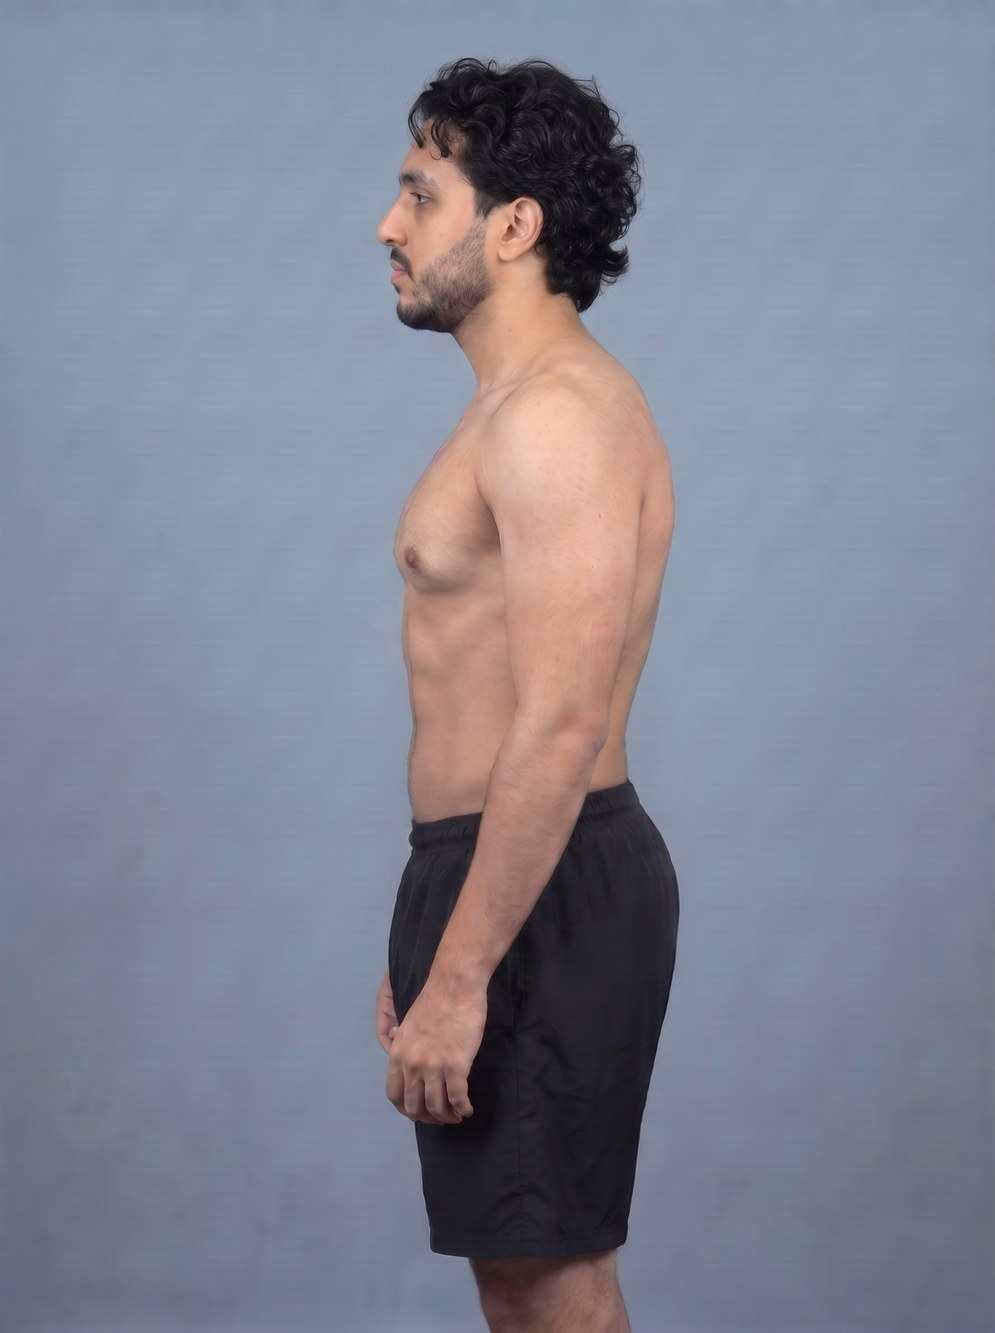
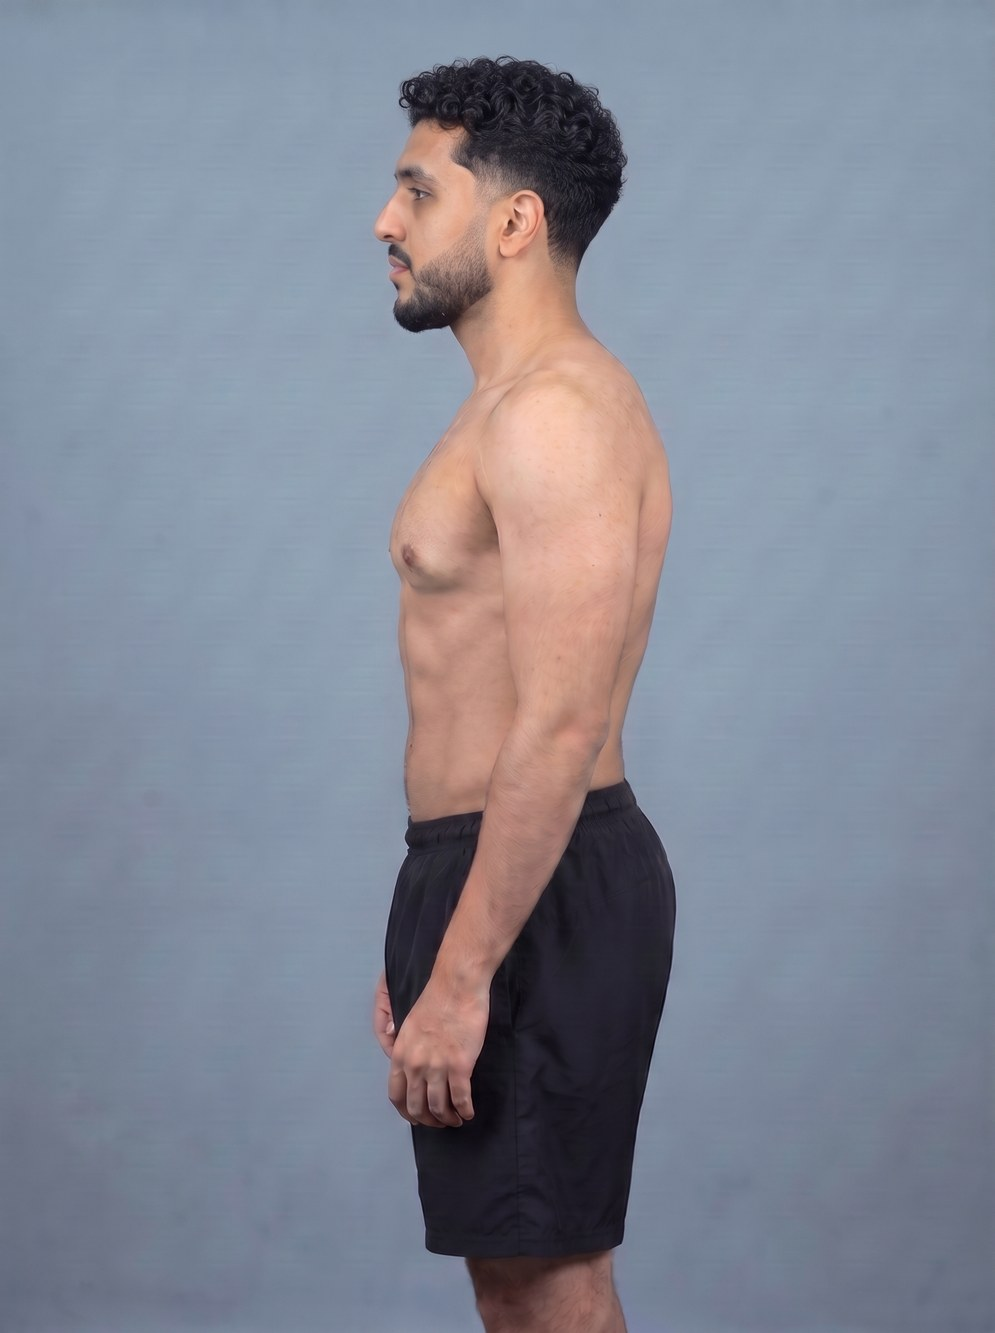
Sharper, rested after: presence block in after prompt; neat curly crop
- afterPrompt applies ALL plan visuals and adds PRESENCE (alert eyes,
  no fatigue cues, posture, defined facial planes) per sleep-appearance
  research, instead of editing only listed items
- Sample after: neat curly crop + faded Italian beard (reviewer pick),
  swept-back medium curls kept as alternative; realism check passes
  (jaw -0.2%, eyes +2.2%, nose +2.1%)
- Body afters updated to match

Claude-Session: https://claude.ai/code/session_01YK5LfND9fHzJNnxfHhhsd1

diff --git a/app/src/lib/plan.ts b/app/src/lib/plan.ts
@@ -220,7 +220,7 @@ export function buildPlan(scan: Scan, intake: Intake): Plan {
       drivenBy: ["Under-eye", "Sleep"],
       priority: 1,
       tasks: [{ id: "sleep-7", label: "In bed for 7.5+ h, same wake time", cadence: "daily" }],
-      visual: "rested eyes with less under-eye darkness and puffiness, eyelids slightly less heavy",
+      visual: "well-rested eyes: upper eyelids open and alert (not hanging), clear whites, no under-eye darkness or puffiness",
     });
   }
 
@@ -769,11 +769,21 @@ export function hairAdvice(intake: Intake, shape: string | null) {
 /*  "After" image prompt — only plan-achievable changes                */
 /* ------------------------------------------------------------------ */
 
+/**
+ * The combined effect of sleep, fat loss, posture and skin care on how a face reads.
+ * Without this the model edits only the listed items and keeps a tired, flat look
+ * (Sundelin 2013/2017; Axelsson 2010: sleep loss → hanging lids, dark circles,
+ * paler skin, drooping mouth corners, rated sadder and less attractive).
+ */
+export const PRESENCE =
+  "Overall the after must read as the sharper, healthier, well-rested version of the same man, not a copy of the baseline with a new haircut: alert, focused gaze with upper eyelids open (not heavy or hooded-looking from fatigue), clear eye whites, no under-eye shadows or puffiness; groomed brows; mouth corners neutral, not drooping; head held level with a long neck and shoulders back; healthy, warm, even skin colour (same skin tone); defined facial planes from fat loss — visible hollow under the cheekbones, crisp jawline and a clean chin-to-neck angle. Expression calm, confident and engaged — not sleepy, sad or blank, no broad smile.";
+
 export function afterPrompt(plan: Plan, intake: Intake): string {
   const changes = plan.items.filter((i) => i.visual).map((i, n) => `${n + 1}) ${i.visual}`);
   return [
     "Edit the first image (baseline studio portrait). Keep the exact same person, camera angle, framing, clothing, slate blue-grey studio background (#A9BDC4) and lighting so it lines up 1:1 as a before/after pair. Any further images are identity references only.",
-    `Show the result of a realistic 12-month, evidence-based self-improvement plan, changing ONLY these things: ${changes.join("; ")}.`,
+    `Show the result of a realistic 12-month, evidence-based self-improvement plan. Apply ALL of these changes clearly and visibly: ${changes.join("; ")}.`,
+    PRESENCE,
     "LOCK identity and bone: identical eye shape and eye spacing, nose width and shape, lips, ears, jaw bone width, chin, skull shape, ethnicity and skin tone (do not lighten the skin). Fat loss may slim soft tissue only. No surgery-like changes. Always edit the original baseline, never a previous after image.",
     `Neutral relaxed expression, closed lips. Photorealistic, no makeup${intake.gender === "female" ? " beyond the person's usual" : ""}, no beauty filter, natural skin texture.`,
   ].join(" ");

diff --git a/app/src/lib/styles.ts b/app/src/lib/styles.ts
@@ -94,18 +94,18 @@ export const HAIRSTYLES: HairStyle[] = [
   },
   {
     id: "curly-crop-taper",
-    name: "Curly crop · taper",
+    name: "Neat curly crop · low taper",
     status: "trending",
     gender: "male",
-    hairTypes: ["curly", "coily"],
+    hairTypes: ["wavy", "curly", "coily"],
     faceShapes: "any",
-    topCm: [4, 8],
+    topCm: [4, 7],
     heatFriendly: true,
     maintenanceWeeks: 3,
-    barber: "Low or mid taper, keep 5–7 cm of curl on top, shape the curls round, light fringe.",
-    prompt: "2026 curly crop: low taper fade, defined natural curls 5-7 cm on top shaped round with a light curly fringe, curl cream, matte",
-    fx: { height: 0.4, sides: 0.2, fringe: 0.5 },
-    worksWith: ["curly", "coily"]
+    barber: "Keep 5–6 cm of curl on top, cut dry and shaped round; sides scissor-cut or #4, subtle low taper only at the sideburns and nape, clean outline around the ears. Curl cream, push up and slightly back with one or two loose curls at the front.",
+    prompt: "neat, shaped curly cut: about 5-6 cm of defined, tidy natural curls on top, shaped round and pushed slightly up and back off the forehead with one or two loose curls at the front, sides short but not shaved (scissor or #4 length, subtle low taper only at the sideburns and nape), clean outline around the ears, curl cream, matte, groomed not messy",
+    fx: { height: 0.3, sides: 0.3, fringe: 0.3 },
+    worksWith: ["wavy", "curly", "coily"]
   },
   {
     id: "medium-curls-subtle-taper",

diff --git a/app/src/lib/sample.ts b/app/src/lib/sample.ts
@@ -17,7 +17,7 @@ export const sampleProfile: Profile = {
   intake: data.intake as Intake,
 };
 
-export const sampleScan: Scan = { ...(data.scan as unknown as Scan), id: SAMPLE_SCAN_ID, profileId: SAMPLE_PROFILE_ID, stylePick: { hair: "medium-curls-subtle-taper", beard: "faded-italian" } };
+export const sampleScan: Scan = { ...(data.scan as unknown as Scan), id: SAMPLE_SCAN_ID, profileId: SAMPLE_PROFILE_ID, stylePick: { hair: "curly-crop-taper", beard: "faded-italian" } };
 
 const S = `${import.meta.env.BASE_URL}sample/`;
 
@@ -31,5 +31,5 @@ export const sampleVisuals: Visuals = {
   baseline: S + "face.jpg",
   after: S + "face_after.jpg",
   body: { front: S + "body_front.jpg", side: S + "body_side.jpg", afterFront: S + "body_after_front.jpg", afterSide: S + "body_after_side.jpg" },
-  styles: [{ name: "Medium curls · subtle taper · faded Italian beard", front: S + "face_after.jpg" }],
+  styles: [{ name: "Neat curly crop · faded Italian beard (reviewer pick)", front: S + "face_after.jpg" }, { name: "Medium curls swept back · faded Italian beard", front: S + "face_after_alt.jpg" }],
 };
